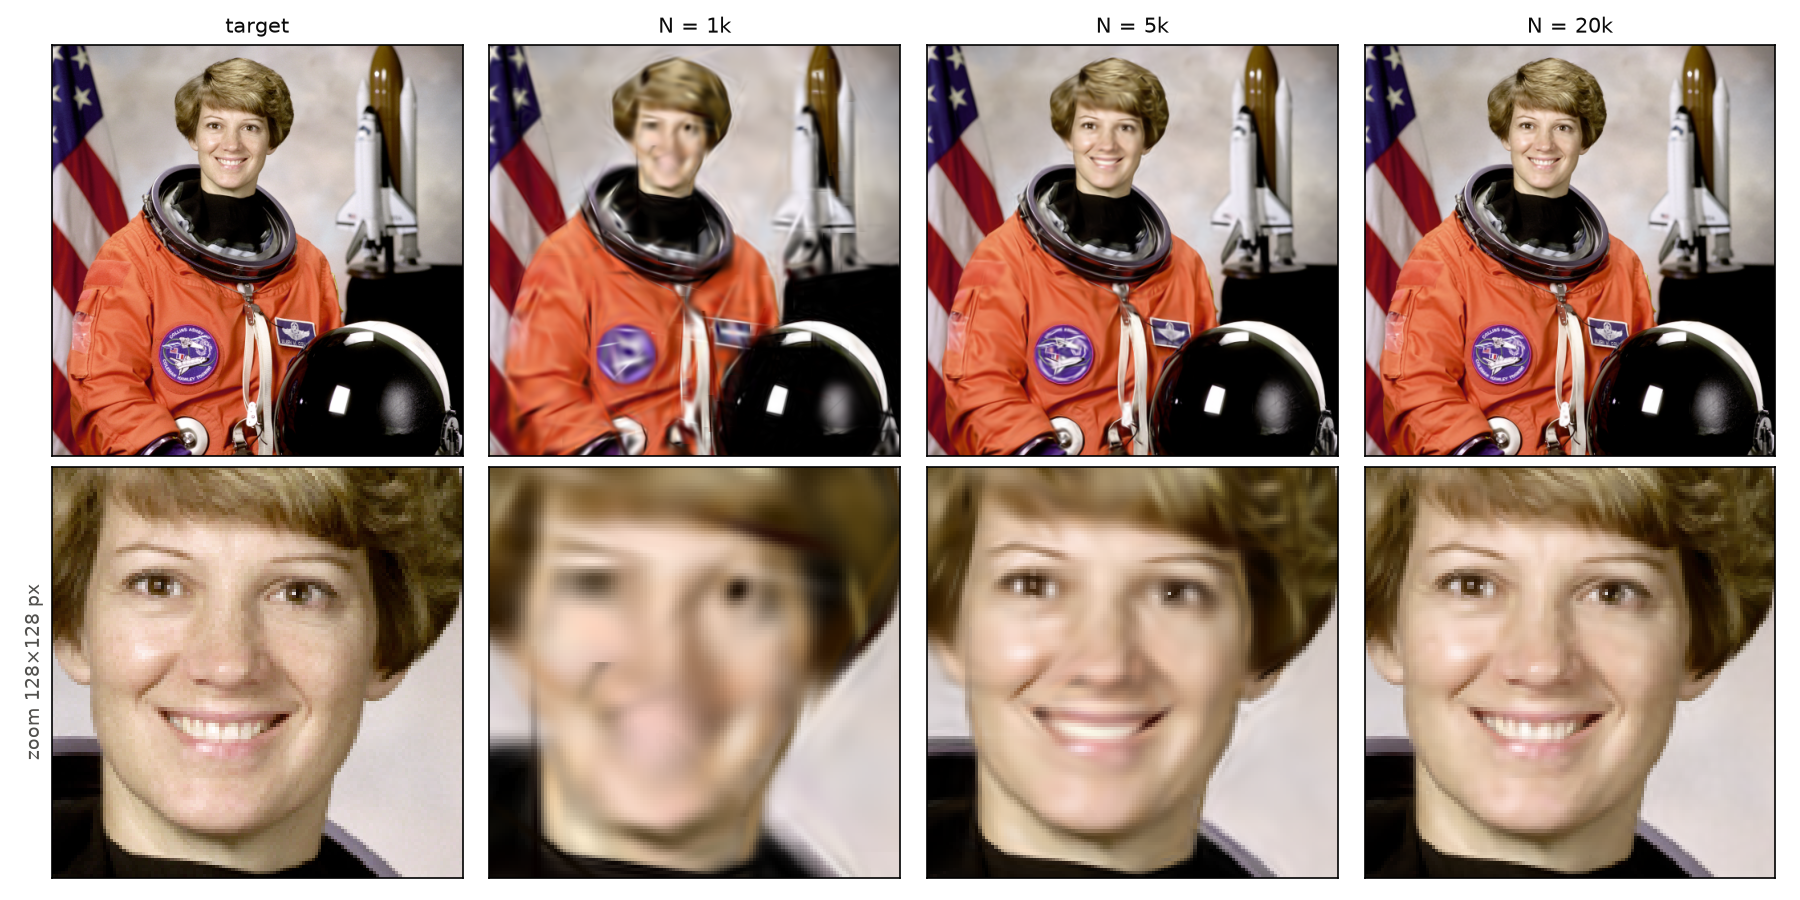
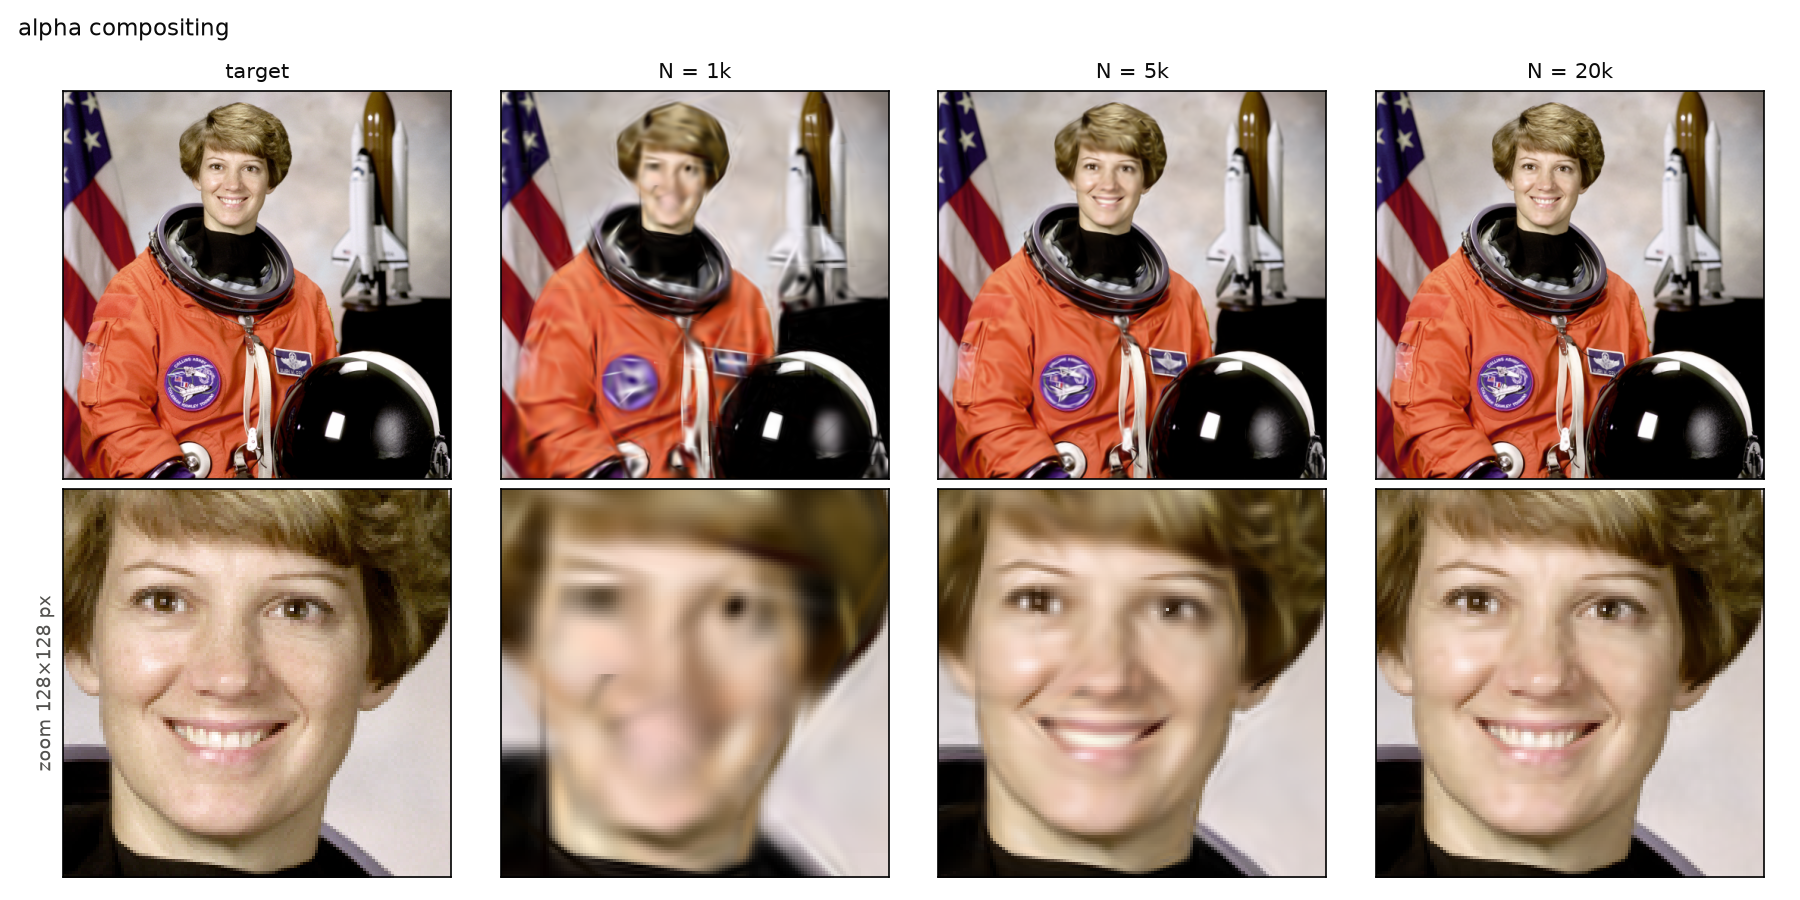
README: Stage 0 and Stage 1 results with figures; training curves and additive panel

diff --git a/scripts/plot_stage1.py b/scripts/plot_stage1.py
@@ -74,12 +74,38 @@ def main():
         print(f"| {mode} | {n} | {m['psnr']:.2f} | {m['ms_per_iter']:.1f} | "
               f"{m['pairs_final'] / 1e6:.2f} | {m['peak_mem_GB']:.2f} | {d.name} |")
 
-    # Render panel: target + each N for alpha compositing, plus a zoomed crop row.
-    alpha_runs = sorted((n, d) for (md, n), (_, d) in runs.items() if md == "alpha")
-    if alpha_runs:
-        tgt = iio.imread(alpha_runs[0][1] / "renders" / "target.png")
+    # Training curves from the TensorBoard logs: PSNR vs iteration, one panel per blending.
+    from tensorboard.backend.event_processing.event_accumulator import EventAccumulator
+    shades = {1000: 0.35, 5000: 0.65, 20000: 1.0}            # lighter = fewer Gaussians
+    fig, axes = plt.subplots(1, 2, figsize=(9, 3.4), dpi=150, sharey=True)
+    for ax, mode in zip(axes, ("additive", "alpha")):
+        for (md, n), (_, d) in sorted(runs.items()):
+            if md != mode:
+                continue
+            ea = EventAccumulator(str(d / "tb")); ea.Reload()
+            ev = ea.Scalars("train/psnr")
+            ax.plot([e.step for e in ev], [e.value for e in ev], lw=2, color=COLORS[mode],
+                    alpha=shades.get(n, 1.0), label=f"N = {n // 1000}k")
+        ax.axhline(30, color=MUTED, lw=1, ls="--")
+        ax.set_title(LABELS[mode], loc="left", fontsize=10, color=INK)
+        ax.set_xlabel("iteration", color=MUTED)
+        ax.grid(axis="y", color=GRID, lw=0.8)
+        for sp in ("top", "right"):
+            ax.spines[sp].set_visible(False)
+        ax.tick_params(colors=MUTED, labelsize=8)
+        ax.legend(frameon=False, fontsize=8, loc="lower right")
+    axes[0].set_ylabel("train PSNR (dB)", color=MUTED)
+    fig.tight_layout()
+    fig.savefig(out / "stage1_training_curves.png")
+
+    # Render panels: target + each N, plus a zoomed crop row, one figure per blending.
+    for mode in ("additive", "alpha"):
+        mode_runs = sorted((n, d) for (md, n), (_, d) in runs.items() if md == mode)
+        if not mode_runs:
+            continue
+        tgt = iio.imread(mode_runs[0][1] / "renders" / "target.png")
         imgs = [("target", tgt)] + [(f"N = {n // 1000}k", iio.imread(d / "renders" / "final.png"))
-                                     for n, d in alpha_runs]
+                                     for n, d in mode_runs]
         H = tgt.shape[0]
         y0, x0, s = H // 8, H // 3, H // 4            # zoom window
         fig, axes = plt.subplots(2, len(imgs), figsize=(3 * len(imgs), 6), dpi=150)
@@ -90,8 +116,9 @@ def main():
             for a in axes[:, j]:
                 a.set_xticks([]); a.set_yticks([])
         axes[1, 0].set_ylabel(f"zoom {s}×{s} px", fontsize=9, color=MUTED)
+        fig.suptitle(LABELS[mode], fontsize=11, color=INK, x=0.01, ha="left")
         fig.tight_layout()
-        fig.savefig(out / "stage1_renders_alpha.png")
+        fig.savefig(out / f"stage1_renders_{mode}.png")
     print(f"figures -> {out}")
 
 

diff --git a/README.md b/README.md
@@ -1,1 +1,166 @@
-# Guassian-splatting
+# Gaussian Splatting of a potted plant, from scratch on a T4
+
+A progressive, mostly from-scratch implementation of 3D Gaussian Splatting
+(Kerbl et al., SIGGRAPH 2023), ending with the highest-fidelity reconstruction a single
+NVIDIA T4 can produce of a golden pothos in a terracotta pot. Each stage is built, tested
+and explained before the next; this README is updated with the results of every stage.
+
+| Stage | Topic | Status |
+|---|---|---|
+| 0 | Environment and scaffolding | ✅ |
+| 1 | 2D Gaussian image fitting | ✅ 38.56 dB @ 20k Gaussians (placeholder image) |
+| 2 | 3D forward model in pure PyTorch | in progress |
+| 3 | Synthetic inverse problem | |
+| 4 | Blender lego with my renderer | |
+| 5 | Tiled CUDA rasterizer (gsplat) | |
+| 6 | Plant data pipeline | |
+| 7 | Plant training ablations | |
+| 8 | Pushing the T4 to maximum detail | |
+| 9 | Evaluation and deliverables | |
+
+## Quick start
+
+```bash
+bash scripts/setup_env.sh            # Miniforge + conda env "gsplat" on /mnt (once)
+conda activate gsplat
+pytest                               # renderer unit tests + gradcheck
+python -m src.fit2d model.n=20000    # Stage 1: fit an image with 2D Gaussians
+bash scripts/tensorboard.sh          # TensorBoard on :6006 (ssh -L 6006:localhost:6006 <vm>)
+```
+
+Every run writes `outputs/<date>_<name>/` with the merged `config.yaml`, `meta.json`
+(git commit, torch/CUDA, GPU), `metrics.json`, TensorBoard logs and renders.
+Configs are YAML in `configs/`, inherit with `_base_:`, and accept `key=value` overrides.
+
+---
+
+## Stage 0: Environment
+
+| | |
+|---|---|
+| GPU | Tesla T4, 15 GB, sm_75, driver 580.178.04 |
+| CPU / RAM | 15 cores Xeon Gold 5218, 88 GiB |
+| Disk | 24 GB root (nearly full) + 500 GB ephemeral volume reformatted to ext4 at `/mnt` |
+| Software | Python 3.12, torch 2.14.1+cu126, nvcc 12.6 + gcc 13, gsplat 1.5.3 (JIT, sm_75), COLMAP 3.12.6 (CPU) |
+
+**What the T4 can actually deliver** (`scripts/gpu_bench.py`, 15 s sustained per test):
+
+| Workload | Measured | Spec | SM clock under load |
+|---|---|---|---|
+| FP32 matmul | 4.32 TFLOPS | 8.1 | 870 MHz (power-capped) |
+| FP16 tensor-core matmul | 25.2 TFLOPS | 65 | 690–735 MHz (power-capped) |
+| Device memory copy | 232 GB/s | 320 | 1590 MHz (full boost) |
+
+The card is pinned at its **70 W limit** (which is also the maximum allowed), and thermals
+are fine (< 50 °C). Dense arithmetic drops the clock to about half of boost, while
+memory-bound kernels run at full speed. Splatting is bandwidth- and launch-bound, so the
+way to "use the whole T4" is to keep it busy (GPU-resident data, no per-iteration host
+syncs, fused kernels), not to chase FLOPS.
+
+Setup pitfalls hit and fixed: Ubuntu's `colmap` package is missing its `libposelib`
+dependency; conda's `cuda-nvcc` activation script breaks under `set -u`; conda-forge keeps
+CUDA headers in `targets/x86_64-linux/include`, so gsplat's JIT build needs `CPATH`.
+
+---
+
+## Stage 1: Fitting an image with 2D Gaussians
+
+Fit a 512×512 crop with N 2D Gaussians, each with a mean μ, rotation θ, log-scales,
+an RGB color and a sigmoid opacity. Code: [`src/splat2d.py`](src/splat2d.py) (renderer),
+[`src/fit2d.py`](src/fit2d.py) (training), tests in
+[`tests/test_splat2d.py`](tests/test_splat2d.py).
+
+> The target is a **placeholder** (the 512×512 `astronaut` test image) until the plant
+> photos are captured; `bash scripts/stage1_sweep.sh image.path=<plant crop>` reruns
+> everything.
+
+### Model
+
+In pixel coordinates (x right, y down, pixel centers at half-integers):
+
+$$
+\Sigma = R(\theta)\,\mathrm{diag}(s_1^2, s_2^2)\,R(\theta)^\top,\qquad
+q(p) = (p-\mu)^\top \Sigma^{-1} (p-\mu) = \left(\tfrac{u}{s_1}\right)^2 + \left(\tfrac{v}{s_2}\right)^2,\quad
+\begin{pmatrix}u\\v\end{pmatrix} = R^\top (p-\mu)
+$$
+
+$G(p) = e^{-q/2}$, truncated to the 3σ ellipse $q < 9$. Working in the Gaussian's own
+frame means Σ is never inverted.
+
+- **Additive:** $C(p) = \sum_k o_k G_k(p)\, c_k$
+- **Alpha compositing** (front to back in a fixed depth order):
+  $\alpha_k = \min(0.99,\ o_k G_k)$, $\;C = \sum_k c_k \alpha_k T_k + T_\text{final}\,\text{bg}$,
+  $\;T_k = \prod_{j<k}(1-\alpha_j)$, with 3DGS early termination
+  (stop once $T_k(1-\alpha_k) < 10^{-4}$).
+
+**Sparse evaluation.** A dense N × HW tensor would hold 5·10⁹ entries at N = 20k. Instead
+the renderer enumerates only (Gaussian, pixel) pairs inside each 3σ ellipse (2–4 M pairs),
+sorts them by (pixel, depth), and computes the transmittance as a per-pixel running sum
+in log space:
+
+$$\log T_k = \sum_{j<k,\ \text{same pixel}} \log(1-\alpha_j)$$
+
+That is one global `cumsum` minus its value at each pixel's first pair. It must be done in
+**float64**: the global sum reaches about −10⁶, and float32 would lose about 0.1 in log T to
+cancellation.
+
+**Verification:** the sparse renderer matches a brute-force dense renderer to 1e-10 (both
+blending modes, with and without early termination), and `torch.autograd.gradcheck`
+passes in float64 for means, rotation, scales, colors and opacity.
+
+### Results (4000 Adam iterations, L2 loss, uniform random init)
+
+| Blending | N | PSNR (dB) | ms / iter | pairs (M) | peak VRAM (GB) |
+|---|---|---|---|---|---|
+| additive | 1k | 24.81 | 52 | 2.02 | 0.77 |
+| additive | 5k | 30.99 | 58 | 2.27 | 0.96 |
+| additive | 20k | 37.82 | 61 | 2.33 | 1.03 |
+| alpha | 1k | 25.33 | 84 | 2.58 | 1.06 |
+| alpha | 5k | 31.87 | 117 | 3.57 | 1.69 |
+| alpha | 20k | **38.56** | 129 | 3.97 | 1.95 |
+
+Acceptance (> 30 dB at 20k Gaussians on a 512 px crop): ✅ 38.56 dB.
+
+![PSNR vs N](docs/figures/stage1_psnr_vs_n.png)
+
+![Training curves](docs/figures/stage1_training_curves.png)
+
+Alpha compositing renders: full image (top) and a 128×128 zoom on the face (bottom):
+
+![Alpha renders](docs/figures/stage1_renders_alpha.png)
+
+Additive renders, for comparison:
+
+![Additive renders](docs/figures/stage1_renders_additive.png)
+
+### Observations
+
+1. **Additive is within 0.5–0.9 dB of alpha compositing and about 2× faster.** In 2D nothing
+   occludes anything, so depth ordering adds little flexibility. It becomes essential in
+   3D, where occlusion has to be modelled.
+2. **PSNR is linear in log N**: about +6.6 dB per 4× Gaussians, i.e. MSE ∝ N^−1.1.
+   At 1k the face is a blur, 5k recovers shapes but not freckles or hair strands, and 20k
+   is close to the target.
+3. **Alpha blending pays for hidden Gaussians.** Pair counts grow from 2.6 M to 4.0 M with
+   N because Gaussians grow as they get stacked. In this pair-based layout early
+   termination only zeroes their contribution; it doesn't skip the work. This overdraw is
+   what a tiled CUDA rasterizer (Stage 5) avoids.
+4. **The first bottleneck was autograd, not the math.** 45 % of GPU time was the
+   sort-based backward of `x[gid]` gathers. Sorting the integer pairs before any
+   differentiable step and using a single packed `index_select` gave 1.35×. The cost is
+   that the backward pass is now non-deterministic at the ~10⁻¹⁶ level.
+
+---
+
+## Repository layout
+
+```
+configs/      one YAML per experiment
+data/      -> /mnt/data      (raw photos, masks, COLMAP, nerf_synthetic; not in git)
+outputs/   -> /mnt/outputs   (runs; not in git)
+docs/figures/                figures embedded in this README
+scripts/      setup_env.sh, check_env.py, gpu_bench.py, gsplat_smoke.py, tensorboard.sh,
+              stage1_sweep.sh, plot_stage1.py
+src/          config.py, run.py, splat2d.py, fit2d.py, and stubs for the 3D pipeline
+tests/        pytest suite
+```

diff --git a/CLAUDE.md b/CLAUDE.md
@@ -56,8 +56,9 @@ and **final quality** (sharp leaf edges, thin stems, terracotta texture, view-de
 configs/            one YAML per experiment
 data/ -> /mnt/data  raw photos, downscaled images, masks, COLMAP sparse/, nerf_synthetic/
 outputs/ -> /mnt/outputs
-scripts/            setup_env.sh, check_env.py, tensorboard.sh
+scripts/            setup_env.sh, check_env.py, gpu_bench.py, tensorboard.sh, stage1_*
 src/
+  splat2d.py, fit2d.py  Stage 1 2D renderer + fitting
   config.py         YAML loading (+ _base_ inheritance, dotlist overrides)
   run.py            seeding, git provenance, run directories, metrics.json
   camera.py         intrinsics/extrinsics, COLMAP + Blender loaders
